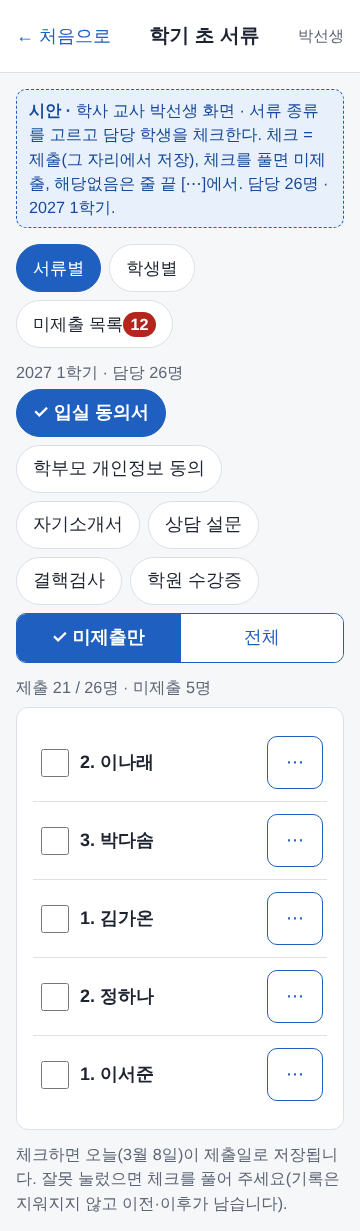
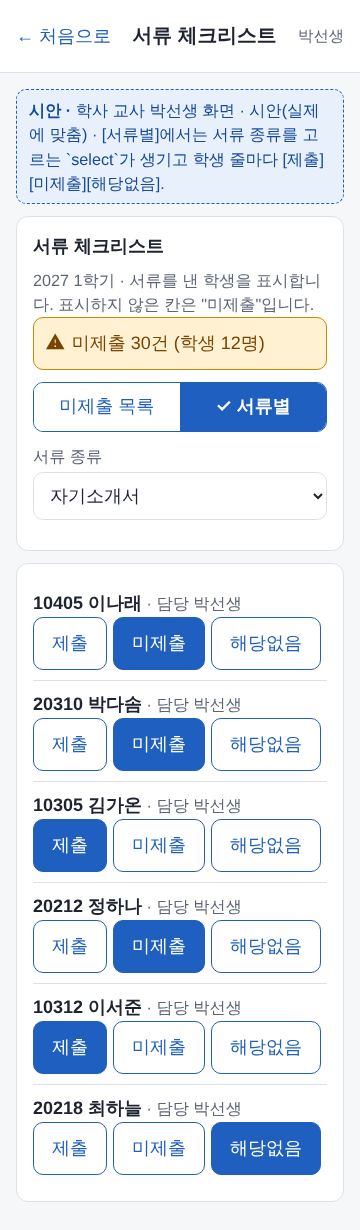
C27 시안을 실제 화면(screen_docs)에 맞춤, 제안 3장은 '실제와 다름' 표시, program.edit 출결 담당 추가(#182) 반영
Claude-Session: https://claude.ai/code/session_01By8Yaa8urwsSoHVw3FXUZa

diff --git a/design/preview/stage4-screens.js b/design/preview/stage4-screens.js
@@ -20,98 +20,112 @@ function typeChips(on) {
 }
 function progress(done, total) { return el('div', { class: 'muted', style: 'margin:4px 0 8px', text: '제출 ' + done + ' / ' + total + '명 · 미제출 ' + (total - done) + '명' }); }
 
-/* ═════════ C27 서류 체크리스트 ═════════ */
-def('docs-home', 'C27 서류', '학사 교사 홈의 "학기 초 서류" 카드', {}, function (root) {
-  var m = frame(root, { title: '신한1학사', who: '박선생', note: '시안 · 학사 교사 홈에 얹는 카드. 담당 학생의 미제출만 보인다(학생 이름은 담당교사에게만). 2단계의 "서류 미제출"(입퇴실·급식 신청 서류)과 다른 카드다.' });
-  m.appendChild(card('학기 초 서류 미제출', [
-    row([UI.statusPill('requested', '12명 · 30건')], 'margin:4px 0 8px'),
-    el('div', { class: 'muted', text: '2. 이나래 · 3. 박다솜 · 1. 김가온 외 9명' }),
-    link('서류 체크리스트 열기', '', 'margin-top:12px')]));
+/* ═════════ C27 서류 체크리스트 (실제 화면 screen_docs.html 에 맞춘 모양 + 실제에 없는 제안 3장은 `docs-proposal-` 로 표시) ═════════ */
+(function () {   // 실제 화면이 자체 <style>로 쓰는 줄·버튼 모양(screen_docs.html)을 시안에도 같게 둔다
+  var st = document.createElement('style');
+  st.textContent = '.doc-row{padding:10px 0;border-bottom:1px solid var(--line);word-break:keep-all}.doc-row:last-child{border-bottom:0}.doc-line{display:flex;justify-content:space-between;align-items:center;gap:8px;flex-wrap:wrap;margin-top:6px}.doc-btns{display:flex;gap:6px;flex-wrap:wrap}.doc-btns button{min-height:48px}.doc-btns button.on{background:var(--accent);color:#fff;border-color:var(--accent)}';
+  document.head.appendChild(st);
+})();
+function docBtns(cur, disabled) {
+  var box = el('div', { class: 'doc-btns' });
+  ['제출', '미제출', '해당없음'].forEach(function (t) {
+    var b = el('button', { type: 'button', class: 'btn secondary' + (cur === t ? ' on' : ''), text: t, 'aria-pressed': cur === t ? 'true' : 'false' });
+    if (disabled) b.disabled = true; box.appendChild(b);
+  });
+  return box;
+}
+var DOC_STU = [['10405', '이나래', '박선생', { '입실 동의서': '미제출', '자기소개서': '미제출', '결핵검사': '미제출' }], ['20310', '박다솜', '박선생', { '자기소개서': '미제출', '결핵검사': '미제출' }], ['10305', '김가온', '박선생', { '입실 동의서': '미제출', '학원 수강증': '미제출' }], ['20212', '정하나', '박선생', { '자기소개서': '미제출', '결핵검사': '미제출' }]];
+function docHead(m, mode, note, withType) {
+  var head = card('서류 체크리스트', [el('div', { class: 'muted', text: '2027 1학기 · 서류를 낸 학생을 표시합니다. 표시하지 않은 칸은 "미제출"입니다.' }),
+    el('div', { class: 'notice warn', text: '미제출 30건 (학생 12명)' }),
+    UI.segmented({ options: [{ value: 'missing', label: '미제출 목록' }, { value: 'type', label: '서류별' }], value: mode, onchange: function () {} })]);
+  if (withType) head.appendChild(UI.field('서류 종류', el('select', {}, DOC_TYPES.map(function (t) { var o = el('option', { value: t, text: t }); if (t === '자기소개서') o.selected = true; return o; })), {}));
+  m.appendChild(head);
+}
+def('docs-home', 'C27 서류', '홈의 "서류 체크리스트" 카드 (관리자·출결 담당·학사 교사 홈)', {}, function (root) {
+  var m = frame(root, { title: '신한1학사', who: '박선생', note: '시안(실제 home_*.html에 맞춤) · 홈 카드. 미제출 건수와 학생 수만 보이고(이름 없음) [서류 체크리스트 열기]로 들어간다. 2단계의 "급식·입퇴실 서류" 카드와 다르다.' });
+  m.appendChild(card('서류 체크리스트', [row([UI.statusPill('todo', '미제출 30건 · 학생 12명')], 'margin:8px 0'), el('div', { class: 'muted', text: '학기 초 서류(동의서 등)를 냈는지 표시합니다.' }), link('서류 체크리스트 열기', '', 'margin-top:12px')]));
 });
 
-def('docs-by-type', 'C27 서류', '서류별 체크 (담당 학생, 미제출만)', {}, function (root) {
-  var m = frame(root, { title: '학기 초 서류', who: '박선생', tabs: [{ t: '서류별', on: true }, { t: '학생별' }, { t: '미제출 목록', n: 12 }],
-    note: '시안 · 서류 종류를 고르고 담당 학생을 체크한다. 체크 = 제출(그 자리에서 저장), 체크를 풀면 미제출, 해당없음은 줄 끝 [⋯]에서. 담당 26명 · 2027 1학기.' });
-  m.appendChild(el('div', { class: 'muted', style: 'margin-bottom:4px', text: '2027 1학기 · 담당 26명' }));
-  m.appendChild(typeChips('입실 동의서'));
-  m.appendChild(UI.segmented({ options: [{ value: 'miss', label: '미제출만' }, { value: 'all', label: '전체' }], value: 'miss', onchange: function () {} }));
-  m.appendChild(progress(21, 26));
-  var ul = el('ul', { class: 'list' });
-  [['2', '이나래'], ['3', '박다솜'], ['1', '김가온'], ['2', '정하나'], ['1', '이서준']].forEach(function (s) { ul.appendChild(docRow(lab(s[0], s[1]), false, '')); });
-  m.appendChild(card('', [ul]));
-  m.appendChild(el('div', { class: 'muted', text: '체크하면 오늘(3월 8일)이 제출일로 저장됩니다. 잘못 눌렀으면 체크를 풀어 주세요(기록은 지워지지 않고 이전·이후가 남습니다).' }));
+def('docs-missing', 'C27 서류', '서류 체크리스트 — 미제출 목록 (학생마다 빠진 서류와 [제출][미제출][해당없음])', {}, function (root) {
+  var m = frame(root, { title: '서류 체크리스트', who: '박선생', note: '시안(실제 screen_docs.html에 맞춤) · 기본 모양. 미제출이 있는 학생만, 빠진 서류마다 상태 버튼 셋(누르는 즉시 저장). 학생은 "학번 이름 · 담당 선생님"으로 보인다(실제 화면 그대로 — 이름 규칙 "1. 김가온"과 다름).' });
+  docHead(m, 'missing');
+  var body = card('', []);
+  DOC_STU.forEach(function (r) {
+    var rw = el('div', { class: 'doc-row' }, [el('b', { text: r[0] + ' ' + r[1] }), el('span', { class: 'muted', text: ' · 담당 ' + r[2] })]);
+    Object.keys(r[3]).forEach(function (t) { rw.appendChild(el('div', { class: 'doc-line' }, [el('span', { text: t }), docBtns(r[3][t], false)])); });
+    body.appendChild(rw);
+  });
+  m.appendChild(body);
 });
 
-def('docs-state-sheet', 'C27 서류', '서류 상태 시트 (제출·미제출·해당없음, 제출일, 메모)', { sheet: true }, function (root) {
-  var m = frame(root, { title: '학기 초 서류', who: '박선생', tabs: [{ t: '서류별', on: true }, { t: '학생별' }, { t: '미제출 목록', n: 12 }], note: '시안 · 줄 끝 [⋯]를 누르면 상태 시트가 열린다.' });
-  m.appendChild(typeChips('결핵검사'));
-  var ul = el('ul', { class: 'list' }); ul.appendChild(docRow(lab('2', '이나래'), false, '')); m.appendChild(card('', [ul]));
-  var date = UI.dateField({ label: '제출일', value: '2027-03-08', onchange: function () {} });
-  var memo = el('input', { type: 'text', value: '' });
-  UI.bottomSheet({ title: '2. 이나래 · 결핵검사', content: el('div', {}, [
-    UI.segmented({ options: [{ value: '제출', label: '제출' }, { value: '미제출', label: '미제출' }, { value: '해당없음', label: '해당없음' }], value: '해당없음', onchange: function () {} }),
-    el('div', { class: 'muted', style: 'margin-bottom:8px', text: '해당없음은 이 학생에게 이 서류가 필요 없을 때(예: 학원 수강증을 내지 않는 학생)입니다.' }),
-    date, UI.field('메모 (선택)', memo, { hint: '길게 쓰지 않습니다.' })]),
-    actions: [{ text: '닫기', kind: 'secondary', onclick: function () {} }, { text: '저장', onclick: function () {} }], onclose: function () {} }).open();
+def('docs-by-type', 'C27 서류', '서류 체크리스트 — 서류별 (서류 종류를 고르면 학생 줄마다 상태 버튼)', {}, function (root) {
+  var m = frame(root, { title: '서류 체크리스트', who: '박선생', note: '시안(실제에 맞춤) · [서류별]에서는 서류 종류를 고르는 `select`가 생기고 학생 줄마다 [제출][미제출][해당없음].' });
+  docHead(m, 'type', '', true);
+  var body = card('', []);
+  [['10405', '이나래', '미제출'], ['20310', '박다솜', '미제출'], ['10305', '김가온', '제출'], ['20212', '정하나', '미제출'], ['10312', '이서준', '제출'], ['20218', '최하늘', '해당없음']].forEach(function (r) {
+    body.appendChild(el('div', { class: 'doc-row' }, [el('b', { text: r[0] + ' ' + r[1] }), el('span', { class: 'muted', text: ' · 담당 박선생' }), docBtns(r[2], false)]));
+  });
+  m.appendChild(body);
 });
 
-def('docs-by-student', 'C27 서류', '학생별 서류 (한 명의 서류 전부)', {}, function (root) {
-  var m = frame(root, { title: '학기 초 서류', who: '박선생', tabs: [{ t: '서류별' }, { t: '학생별', on: true }, { t: '미제출 목록', n: 12 }], note: '시안 · 학생 한 명을 찾으면 서류 6종을 한 번에 본다(면담하면서 확인할 때).' });
+def('docs-readonly', 'C27 서류', '서류 체크리스트 — 출결 담당 보기만 (버튼이 꺼져 있다)', {}, function (root) {
+  var m = frame(root, { title: '서류 체크리스트', who: '정선생', note: '정선생(출결 담당) 화면 · 출결 담당은 학사생 전체를 보지만 표시는 못 한다(`doc.view`만, `doc.edit` 없음) → 버튼이 꺼지고 안내 한 줄.' });
+  docHead(m, 'missing');
+  var body = card('', [el('div', { class: 'muted', text: '보기만 할 수 있습니다. 표시는 담당 선생님·관리자가 합니다.' })]);
+  DOC_STU.slice(0, 3).forEach(function (r) {
+    var rw = el('div', { class: 'doc-row' }, [el('b', { text: r[0] + ' ' + r[1] }), el('span', { class: 'muted', text: ' · 담당 ' + r[2] })]);
+    Object.keys(r[3]).forEach(function (t) { rw.appendChild(el('div', { class: 'doc-line' }, [el('span', { text: t }), docBtns(r[3][t], true)])); });
+    body.appendChild(rw);
+  });
+  m.appendChild(body);
+});
+
+def('docs-types', 'C27 서류', '서류 종류 관리 (관리자, 칸마다 이름·설명·순서·[저장]·[끄기])', {}, function (root) {
+  var m = frame(root, { title: '서류 체크리스트', who: '관리자', note: '시안(실제에 맞춤) · 서류 체크리스트 화면 맨 아래 관리자 카드. 서류 종류마다 이름·설명·순서 입력과 [저장]·[끄기](삭제 없음), 맨 아래 새 서류 추가. 순서는 숫자를 직접 적는다. 고칠 점: 실제 화면의 입력칸은 UI.field로 감싸이지 않아 높이가 21px이라(48px 미만) 이 시안은 감싼 모양으로 그렸다.' });
+  docHead(m, 'missing');
+  var tc = card('서류 종류 관리', [el('div', { class: 'muted', text: '입실 동의서, 개인정보 동의서 등. 끄면 목록에서 사라지지만 제출 기록은 남습니다.' })]);
+  DOC_TYPES.slice(0, 3).forEach(function (t, i) {
+    tc.appendChild(el('div', { class: 'doc-row' }, [UI.field('서류 이름', el('input', { type: 'text', value: t })), UI.field('설명', el('input', { type: 'text', value: i === 0 ? '입실 전 서명 받은 동의서' : '' })), UI.field('순서', el('input', { type: 'text', value: String(i + 1) })),
+      el('div', { class: 'doc-line' }, [el('button', { type: 'button', class: 'btn secondary', text: '저장' }), el('button', { type: 'button', class: 'btn secondary', text: '끄기' })])]));
+  });
+  tc.appendChild(el('div', { class: 'doc-row' }, [el('b', { text: '새 서류' }), UI.field('새 서류 이름', el('input', { type: 'text', placeholder: '예: 입실 동의서' })), UI.field('설명(선택)', el('input', { type: 'text' })), el('div', { class: 'doc-line' }, [el('button', { type: 'button', class: 'btn', text: '서류 추가' })])]));
+  m.appendChild(tc);
+});
+
+def('docs-type-off', 'C27 서류', '서류 종류 끄기 확인 (삭제 아님)', { sheet: true }, function (root) {
+  var m = frame(root, { title: '서류 체크리스트', who: '관리자', note: '시안(실제에 맞춤) · [끄기]를 누르면 확인창.' });
+  docHead(m, 'missing');
+  UI.confirmSheet({ title: '"결핵검사"을(를) 끌까요?', lines: ['목록에서 사라집니다.', '이미 표시한 제출 기록은 지워지지 않습니다.'], confirmText: '끄기', danger: true, onconfirm: function () {} });
+});
+
+/* ───── 아래 셋은 시안에만 있고 실제 화면에 없다(제안, 꼭 필요한지는 총괄 판단). 이름이 docs-proposal- 로 시작한다 ───── */
+def('docs-proposal-by-student', 'C27 제안(실제와 다름)', '제안: 학생별 보기 (한 학생의 서류 전부) — 실제 화면에 없음', {}, function (root) {
+  var m = frame(root, { title: '서류 체크리스트', who: '박선생', tabs: [{ t: '서류별' }, { t: '학생별', on: true }, { t: '미제출 목록', n: 12 }], note: '실제와 다름(제안) · 면담하면서 한 학생의 서류 6종을 한눈에 보는 [학생별] 탭. 실제 화면에는 없다(미제출 목록·서류별 둘뿐).' });
   m.appendChild(studentPick('학생', 'ㅇㄴㄹ'));
   var ul = el('ul', { class: 'list' });
   [['입실 동의서', '제출', '3월 2일'], ['학부모 개인정보 동의', '제출', '3월 2일'], ['자기소개서', '미제출', ''], ['상담 설문', '제출', '3월 5일'], ['결핵검사', '미제출', ''], ['학원 수강증', '해당없음', '']].forEach(function (r) {
     var kind = r[1] === '제출' ? 'confirmed' : (r[1] === '미제출' ? 'requested' : 'mute');
     ul.appendChild(el('li', { style: 'align-items:center' }, [el('div', { style: 'min-width:0;word-break:keep-all' }, [el('b', { text: r[0] }), r[2] ? el('div', { class: 'muted', text: '제출일 ' + r[2] }) : null]), UI.statusPill(kind, r[1])]));
   });
-  m.appendChild(card('2. 이나래 · 미제출 2건', [ul, link('상태 바꾸기', 'secondary', 'margin-top:8px')]));
+  m.appendChild(card('이나래 · 미제출 2건', [ul]));
 });
-
-def('docs-unsubmitted', 'C27 서류', '미제출 목록 (학생별로 모은 것)', {}, function (root) {
-  var m = frame(root, { title: '학기 초 서류', who: '박선생', tabs: [{ t: '서류별' }, { t: '학생별' }, { t: '미제출 목록', on: true, n: 12 }], note: '시안 · 담당 학생 중 미제출이 있는 학생만, 많은 순서로. 서류 이름 칩을 누르면 그 서류만 거른다.' });
-  m.appendChild(el('div', { class: 'muted', style: 'margin-bottom:8px', text: '12명 · 30건' }));
-  m.appendChild(typeChips(''));
-  var ul = el('ul', { class: 'list' });
-  [['2', '이나래', ['자기소개서', '결핵검사', '입실 동의서']], ['3', '박다솜', ['자기소개서', '결핵검사']], ['1', '김가온', ['입실 동의서', '학원 수강증']], ['2', '정하나', ['자기소개서', '결핵검사']], ['1', '이서준', ['입실 동의서']], ['2', '최하늘', ['자기소개서']]].forEach(function (r) {
-    ul.appendChild(el('li', { style: 'align-items:flex-start' }, [el('div', { style: 'min-width:0;word-break:keep-all' }, [el('b', { text: lab(r[0], r[1]) }), el('div', { class: 'muted', text: r[2].join(' · ') })]), UI.statusPill('requested', r[2].length + '건')]));
-  });
-  m.appendChild(card('', [ul, link('더 보기(6명)', 'secondary', 'margin-top:8px')]));
+def('docs-proposal-state-sheet', 'C27 제안(실제와 다름)', '제안: [⋯] 상태 시트 (제출일·메모) — 실제 화면에 없음', { sheet: true }, function (root) {
+  var m = frame(root, { title: '서류 체크리스트', who: '박선생', note: '실제와 다름(제안) · 제출일·메모를 남기는 시트. 실제 화면은 [제출][미제출][해당없음] 버튼만 있고 제출일·메모를 받지 않는다(탭에는 `submitted_date`·`memo` 열이 있다).' });
+  docHead(m, 'type', '', true);
+  UI.bottomSheet({ title: '이나래 · 결핵검사', content: el('div', {}, [UI.segmented({ options: [{ value: '제출', label: '제출' }, { value: '미제출', label: '미제출' }, { value: '해당없음', label: '해당없음' }], value: '제출', onchange: function () {} }),
+    UI.dateField({ label: '제출일', value: '2027-03-08', onchange: function () {} }), UI.field('메모 (선택)', el('input', { type: 'text', value: '' }), {})]),
+    actions: [{ text: '닫기', kind: 'secondary', onclick: function () {} }, { text: '저장', onclick: function () {} }], onclose: function () {} }).open();
 });
-
-def('docs-summary', 'C27 서류', '관리자 서류 진행 (서류별·담당교사별)', {}, function (root) {
-  var m = frame(root, { title: '학기 초 서류', who: '관리자', tabs: [{ t: '진행', on: true }, { t: '서류 종류' }], note: '시안 · 관리자 화면. 학사생 180명 전체의 진행과 담당교사별 미제출(독촉할 곳). 학생 이름은 없다(숫자만).' });
+def('docs-proposal-summary', 'C27 제안(실제와 다름)', '제안: 관리자 서류 진행 (서류별·담당교사별 숫자) — 실제 화면에 없음', {}, function (root) {
+  var m = frame(root, { title: '서류 체크리스트', who: '관리자', note: '실제와 다름(제안) · 관리자가 어느 선생님이 서류를 덜 받았는지 한눈에 보는 표. 실제 화면에는 없다(관리자도 미제출 목록·서류별로 본다). 학생 이름 없이 숫자만.' });
   var t1 = el('table', { class: 'data compact' }, [el('thead', {}, [el('tr', {}, ['서류', '제출', '미제출', '해당없음'].map(function (h) { return el('th', { text: h }); }))]),
-    el('tbody', {}, [['입실 동의서', 171, 9, 0], ['학부모 개인정보 동의', 168, 12, 0], ['자기소개서', 150, 30, 0], ['상담 설문', 175, 5, 0], ['결핵검사', 130, 38, 12], ['학원 수강증', 90, 20, 70]].map(function (r) {
-      return el('tr', {}, r.map(function (v) { return el('td', { text: String(v) }); })); }))]);
-  m.appendChild(el('h2', { text: '서류별 (학사생 180명)', style: 'margin:4px 0 8px' }));
-  m.appendChild(el('div', { class: 'tablewrap' }, [t1]));
+    el('tbody', {}, [['입실 동의서', 171, 9, 0], ['학부모 개인정보 동의', 168, 12, 0], ['자기소개서', 150, 30, 0], ['상담 설문', 175, 5, 0], ['결핵검사', 130, 38, 12], ['학원 수강증', 90, 20, 70]].map(function (r) { return el('tr', {}, r.map(function (v) { return el('td', { text: String(v) }); })); }))]);
+  m.appendChild(el('h2', { text: '서류별 (학사생 180명)', style: 'margin:4px 0 8px' })); m.appendChild(el('div', { class: 'tablewrap' }, [t1]));
   var t2 = el('table', { class: 'data compact' }, [el('thead', {}, [el('tr', {}, ['담당교사', '담당 학생', '미제출 건수'].map(function (h) { return el('th', { text: h }); }))]),
     el('tbody', {}, [['박선생', 26, 30], ['김선생', 31, 22], ['이선생', 30, 18], ['최선생', 29, 16], ['정선생', 32, 15], ['한선생', 32, 13]].map(function (r) { return el('tr', {}, r.map(function (v) { return el('td', { text: String(v) }); })); })
       .concat([el('tr', { class: 'total' }, ['전체', 180, 114].map(function (v) { return el('td', { text: String(v) }); }))]))]);
-  m.appendChild(el('h2', { text: '담당교사별 미제출', style: 'margin:16px 0 8px' }));
-  m.appendChild(el('div', { class: 'tablewrap' }, [t2]));
-  m.appendChild(el('div', { class: 'muted', text: '표는 옆으로 밀 수 있습니다(첫 열은 고정). 합계 줄은 굵은 글씨 + 회색 바탕.' }));
-});
-
-def('docs-types', 'C27 서류', '관리자 서류 종류 관리 (추가·이름·순서·취소, 삭제 없음)', {}, function (root) {
-  var m = frame(root, { title: '학기 초 서류', who: '관리자', tabs: [{ t: '진행' }, { t: '서류 종류', on: true }], bar: [{ text: '+ 서류 종류 추가' }],
-    note: '시안 · 관리자만. 서류 종류는 지우지 않고 [취소]로 끈다(취소해도 이미 받은 제출 기록은 남는다).' });
-  m.appendChild(el('div', { class: 'notice info', text: '서류 종류는 학기마다 새로 만들지 않아도 됩니다. 학기가 바뀌면 학생별 제출 표시만 새로 시작합니다.' }));
-  var ul = el('ul', { class: 'list' });
-  DOC_TYPES.forEach(function (t, i) {
-    ul.appendChild(el('li', { style: 'align-items:center' }, [el('div', { style: 'min-width:0;word-break:keep-all' }, [el('b', { text: (i + 1) + '. ' + t }), el('div', { class: 'muted', text: i === 4 ? '입실 전 결핵 검진 결과' : '' })]),
-      row([el('button', { type: 'button', class: 'btn secondary row-btn', 'aria-label': t + ' 위로', text: '▲' }), el('button', { type: 'button', class: 'btn secondary row-btn', 'aria-label': t + ' 아래로', text: '▼' }), el('button', { type: 'button', class: 'btn secondary row-btn', text: '고치기' })], 'flex-wrap:nowrap')]));
-  });
-  m.appendChild(card('', [ul]));
-  m.appendChild(el('h2', { text: '취소된 종류', style: 'margin:16px 0 8px' }));
-  m.appendChild(card('', [el('ul', { class: 'list' }, [el('li', { style: 'align-items:center' }, [el('div', { style: 'word-break:keep-all' }, [el('b', { text: '건강 설문' }), el('div', { class: 'muted', text: '작년까지 사용' })]), UI.statusPill('canceled', '취소됨')])])]));
-});
-
-def('docs-type-edit', 'C27 서류', '서류 종류 추가·고치기 시트', { sheet: true }, function (root) {
-  var m = frame(root, { title: '학기 초 서류', who: '관리자', tabs: [{ t: '진행' }, { t: '서류 종류', on: true }], bar: [{ text: '+ 서류 종류 추가' }], note: '시안 · [+ 서류 종류 추가] 또는 [고치기]를 누르면 열린다.' });
-  var name = el('input', { type: 'text', value: '' }), desc = el('input', { type: 'text', value: '' });
-  var f = UI.field('이름', name, { hint: '이미 있는 서류 이름과 같을 수 없습니다.' });
-  UI.bottomSheet({ title: '서류 종류 추가', content: el('div', {}, [f, UI.field('설명 (선택)', desc, { hint: '교사가 무엇을 받는 서류인지 알 수 있게 한 줄로.' })]),
-    actions: [{ text: '닫기', kind: 'secondary', onclick: function () {} }, { text: '추가', onclick: function () {} }], onclose: function () {} }).open();
+  m.appendChild(el('h2', { text: '담당교사별 미제출', style: 'margin:16px 0 8px' })); m.appendChild(el('div', { class: 'tablewrap' }, [t2]));
 });
 
 /* ═════════ C28 프로그램 + 참가자 (코딩B가 만든 실제 화면 #173에 맞춘 모양: [목록|새 프로그램] 탭, 카드 안 펼치기, 아래 바는 입력에서만) ═════════ */

diff --git a/tests/design/docs.test.js b/tests/design/docs.test.js
@@ -157,7 +157,7 @@ test('D12 4단계 시안(stage4-screens.js)의 화면 이름이 모두 screens.m
     assert.ok(sec.indexOf('`' + id + '`') >= 0, '5-4 절에 `' + id + '` 가 없다');
     assert.ok(fs.existsSync(path.join(__dirname, '..', '..', 'docs', 'design', 'stage4-photos', id + '.png')), id + ' 사진이 없다');
   });
-  ['`doc.edit`', '`doc.view`', '`doc.types`', '`program.edit`', '`program.view`', '삭제 버튼은 없다', '미정', '행이 없으면 미제출', '함께 취소됩니다', '그대로 두고 프로그램 특이사항을 따로 만듭니다'].forEach((t) => assert.ok(sec.indexOf(t) >= 0 || doc.indexOf(t) >= 0, t));
+  ['`doc.edit`', '`doc.view`', '`doc.types`', '`program.edit`', '`program.view`', '삭제 버튼은 없다', '`docs-proposal-summary`', '실제와 다름', '미정', '행이 없으면 미제출', '함께 취소됩니다', '그대로 두고 프로그램 특이사항을 따로 만듭니다'].forEach((t) => assert.ok(sec.indexOf(t) >= 0 || doc.indexOf(t) >= 0, t));
 });
 
 test('2단계 선생님 확인 체크리스트: 단계 번호(A1~E4)가 겹치지 않고 모든 줄이 7칸(번호·누가·누르는 것·통과 모습·사진·결과)이며, print-check 9·10절 번호(44~66)가 이어진다', () => {

diff --git a/docs/design/screens.md b/docs/design/screens.md
@@ -477,54 +477,69 @@ D12 시안(`design/preview/stage4-screens.js`, 실행 `node design/preview/stage
 
 | 이름 | 화면 | 누가 |
 | --- | --- | --- |
-| `docs-home` | 학사 교사 홈의 "학기 초 서류 미제출" 카드 | 학사 교사 |
-| `docs-by-type` | 서류별 체크(담당 학생, 미제출만) | 학사 교사·관리자 |
-| `docs-state-sheet` | 서류 상태 시트(제출·미제출·해당없음, 제출일, 메모) | 학사 교사·관리자 |
-| `docs-by-student` | 학생별 서류(한 명의 서류 전부) | 학사 교사·관리자 |
-| `docs-unsubmitted` | 미제출 목록(학생별로 모은 것) | 학사 교사 |
-| `docs-summary` | 서류 진행(서류별·담당교사별 숫자) | 관리자 |
-| `docs-types` | 서류 종류 관리(추가·이름·순서·취소) | 관리자 |
-| `docs-type-edit` | 서류 종류 추가·고치기 시트 | 관리자 |
-| `program-list` | [목록] 탭: 예정·지난·취소, 카드 | 학사 교사·관리자(출결 담당은 보기) |
-| `program-card-open` | 카드 안에서 참가자 펼침(줄마다 [빼기]) | 학사 교사·관리자 |
-| `program-add` | [새 프로그램] 탭(이름·날짜·시간·참가 학생) | 학사 교사·관리자 |
-| `program-add-more` | [참가자 더하기] 시트(이미 담은 학생은 건너뜀) | 학사 교사·관리자 |
-| `program-confirm` | [확인하고 저장] 확인창(특이사항 건수·겹침 안내) | 학사 교사·관리자 |
-| `program-remove` | 참가에서 빼기 확인(사유 입력) | 학사 교사·관리자 |
-| `program-cancel` | 프로그램 취소 확인(사유 입력) | 학사 교사·관리자 |
+| `docs-home` | 홈의 "서류 체크리스트" 카드(미제출 건수·학생 수) | 관리자·출결 담당·학사 교사 |
+| `docs-missing` | 미제출 목록(학생마다 빠진 서류와 [제출][미제출][해당없음]) | 학사 교사·관리자(출결 담당은 보기만) |
+| `docs-by-type` | 서류별(서류 종류 `select` + 학생 줄마다 상태 버튼) | 학사 교사·관리자 |
+| `docs-readonly` | 출결 담당 보기만(버튼이 꺼진 모양) | 출결 담당 |
+| `docs-types` | 서류 종류 관리(이름·설명·순서·[저장]·[끄기]·새 서류) | 관리자 |
+| `docs-type-off` | 서류 종류 끄기 확인(삭제 아님) | 관리자 |
+| `docs-proposal-by-student` | **제안·실제와 다름:** 학생별 보기 | (제안) |
+| `docs-proposal-state-sheet` | **제안·실제와 다름:** [⋯] 상태 시트(제출일·메모) | (제안) |
+| `docs-proposal-summary` | **제안·실제와 다름:** 관리자 서류 진행(서류별·담당교사별 숫자) | (제안) |
+| `program-list` | [목록] 탭: 예정·지난·취소, 카드 | 관리자·출결 담당·학사 교사 |
+| `program-card-open` | 카드 안에서 참가자 펼침(줄마다 [빼기]) | 관리자·출결 담당·학사 교사 |
+| `program-add` | [새 프로그램] 탭(이름·날짜·시간·참가 학생) | 관리자·출결 담당·학사 교사 |
+| `program-add-more` | [참가자 더하기] 시트(이미 담은 학생은 건너뜀) | 관리자·출결 담당·학사 교사 |
+| `program-confirm` | [확인하고 저장] 확인창(특이사항 건수·겹침 안내) | 관리자·출결 담당·학사 교사 |
+| `program-remove` | 참가에서 빼기 확인(사유 입력) | 관리자·출결 담당·학사 교사 |
+| `program-cancel` | 프로그램 취소 확인(사유 입력) | 관리자·출결 담당·학사 교사 |
 
-### C27-1. 학사 교사: 서류 체크
+### C27-1. 서류 체크리스트 (실제 화면 `screen_docs.html`에 맞춘 시안)
 
 ```
-학기 초 서류                       박선생
-( 서류별 )( 학생별 )( 미제출 목록 12 )        ← .tabs (두 줄로 접혀도 된다)
-2027 1학기 · 담당 26명
-( 입실 동의서 )( 학부모 개인정보 동의 )…      ← 서류 종류 칩(하나 고름)
-[ 미제출만 | 전체 ]                          ← UI.segmented
-제출 21 / 26명 · 미제출 5명
-┌──────────────────────────┐
-│ ☐ 2. 이나래                 [ ⋯ ]  │  ← 체크 = 제출(그 자리에서 저장), 풀면 미제출
-│ ☐ 3. 박다솜                 [ ⋯ ]  │
+서류 체크리스트                        박선생
+┌ 서류 체크리스트 ───────────────┐
+│ 2027 1학기 · 서류를 낸 학생을 표시합니다. 표시하지 않은 칸은 "미제출"입니다. │
+│ ⚠ 미제출 30건 (학생 12명)                         │  ← .notice.warn (다 냈으면 .notice.ok "모두 제출했습니다.")
+│ [ 미제출 목록 | 서류별 ]                           │  ← UI.segmented
+│ (서류별일 때) 서류 종류 [ 자기소개서 ▾ ]            │  ← select
+└──────────────────────────┘
+┌ 10405 이나래 · 담당 박선생 ────┐
+│ 입실 동의서   [제출][미제출][해당없음] │  ← 누르는 즉시 저장, 지금 상태는 채운 버튼
+│ 자기소개서    [제출][미제출][해당없음] │
 └──────────────────────────┘
 ```
 
-- 홈 카드(`docs-home`): "학기 초 서류 미제출 12명 · 30건", 학생 몇 명(이름은 담당교사에게만), [서류 체크리스트 열기]. 2단계의 "서류 미제출"(입퇴실·급식 신청 서류) 카드와 다른 카드다.
-- **서류별**(`docs-by-type`): 칩으로 서류 종류를 고르고 담당 학생을 체크한다. 체크한 줄은 그 자리에서 저장되고(제출일 = 오늘) 체크를 풀면 `미제출`로 돌아간다(같은 행을 고친다, `audit_log`에 이전·이후). 줄 끝 [⋯]은 상태 시트(`docs-state-sheet`): 제출·미제출·해당없음 `UI.segmented`, 제출일(`UI.dateField`), 메모(짧게). **해당없음**은 그 학생에게 필요 없는 서류(예: 학원 수강증을 안 내는 학생).
-- **학생별**(`docs-by-student`): `UI.studentPicker`로 한 명을 찾으면 서류 종류마다 상태 알약(`제출`=`confirmed`, `미제출`=`requested`, `해당없음`=`mute`)과 제출일이 보인다. 면담하면서 한 학생의 서류를 한눈에 볼 때.
-- **미제출 목록**(`docs-unsubmitted`): 담당 학생 중 미제출이 있는 학생만, 미제출이 많은 순서로. 줄에 빠진 서류 이름과 건수(알약), 서류 이름 칩으로 거른다.
-- 서류가 없는 학생은 **행이 없으면 미제출**로 본다(학기 초에 행을 미리 만들지 않는다, s4-0 설계). 새 학기가 되면 학생별 제출 표시는 새로 시작한다(기간별 탭).
-- 권한: 담당교사·그날 근무교사·관리자가 표시(`doc.edit`), 출결 담당은 보기(`doc.view`, 체크·[⋯]가 없다). 담임·학생·학부모에게는 이 화면도 카드도 없다.
+- **한 화면**이다. 위 카드(제목·기간·미제출 요약 알림·`UI.segmented` [미제출 목록 | 서류별]), 본문 카드, (관리자만) 맨 아래 서류 종류 관리 카드(`docs-types`). 서류 종류가 없으면 `.notice.info`("서류 종류가 아직 없습니다. …").
+- **미제출 목록**(`docs-missing`, 기본): 미제출이 하나라도 있는 학생만. 줄 = "학번 이름 · 담당 선생님"(굵게) 아래에 **빠진 서류마다** 서류 이름과 [제출][미제출][해당없음] 세 버튼(48px, 지금 상태는 파란 채움 + `aria-pressed`). 누르면 즉시 저장하고 목록을 다시 불러온다(그래서 제출로 바꾸면 그 줄이 사라진다). 다른 사람이 먼저 바꾸었으면 "이미 바뀌었습니다" 안내 뒤 새로 고친다(`expect`).
+- **서류별**(`docs-by-type`): `select`로 서류 종류를 고르면 학생 줄마다 같은 세 버튼.
+- **보기만**(`docs-readonly`): 출결 담당은 학사생 전체를 보지만 표시는 못 한다(`doc.view`만) → 버튼이 꺼지고 "보기만 할 수 있습니다. 표시는 담당 선생님·관리자가 합니다."
+- **보이는 학생**: 관리자·출결 담당·**근무 중인 학사 교사**는 학사생 전체, 그 밖의 학사 교사는 담당 학생만(`docVisibleIds_`). 서류가 없는 학생은 **행이 없으면 미제출**(학기 초에 행을 미리 만들지 않는다). 새 학기가 되면 학생별 제출 표시는 새로 시작한다(기간별 탭). 이 기간의 서류 탭이 없으면 `.notice.warn`.
+- **홈 카드**(`docs-home`): 관리자·출결 담당·학사 교사 홈에 "서류 체크리스트" 카드 — `미제출 N건 · 학생 M명`(알약 `todo`, 다 냈으면 `confirmed` "모두 제출", 서류 종류가 없으면 "서류 종류 없음") + "학기 초 서류(동의서 등)를 냈는지 표시합니다." + [서류 체크리스트 열기]. 2단계의 "급식·입퇴실 서류" 카드와 다르다.
+- 권한: 표시는 담당교사·그날 근무교사·관리자(`doc.edit`, 학생 범위는 서버가 판정), 보기는 출결 담당까지(`doc.view`), 서류 종류 관리는 관리자만(`doc.types`). 담임·학생·학부모에게는 이 화면도 카드도 없다.
 
-### C27-2. 관리자: 진행과 서류 종류
+### C27-2. 관리자: 서류 종류 관리 (`docs-types`, `docs-type-off`)
 
-- **진행**(`docs-summary`): 학사생 전체 기준 "서류별 제출·미제출·해당없음" 표와 "담당교사별 미제출 건수" 표(독촉할 곳). 학생 이름은 없고 숫자만이다. 합계 줄은 굵은 글씨 + 회색 바탕, 표는 상자 안에서만 옆으로 민다.
-- **서류 종류**(`docs-types`, `docs-type-edit`): 서류 종류 목록(순서 ▲▼, [고치기]), [+ 서류 종류 추가](이름·설명). 이름은 유효한 것끼리 겹칠 수 없다. **삭제 버튼은 없다** — [고치기] 시트에서 취소하면 "취소된 종류"로 내려가고(`취소됨` 알약) 이미 받은 제출 기록은 남는다.
+- 서류 종류마다 이름(40자)·설명(100자)·순서(숫자) 입력과 [저장]·[끄기], 맨 아래 "새 서류"(이름·설명·[서류 추가]). 이름은 유효한 것끼리 겹칠 수 없다(오류는 그 줄 아래 `.error`). 순서는 숫자를 직접 적는다(▲▼ 버튼이 아님).
+- **삭제 버튼은 없다.** [끄기]는 확인창(`UI.confirmSheet`, 위험 색, "목록에서 사라집니다. 이미 표시한 제출 기록은 지워지지 않습니다.") 뒤 서류 종류를 `취소`로 바꿔 목록에서 숨긴다.
+- **고칠 점(실제 화면):** 입력칸이 `UI.field`로 감싸이지 않은 맨 `<input>`이라 높이가 21px(누르는 칸 48px 미만)이고 글자 라벨이 `aria-label`뿐이다. 시안(`docs-types`)은 `UI.field`로 감싼 모양이다.
+
+### C27-3. 제안(실제 화면에 없음, 꼭 필요한지는 총괄 판단)
+
+처음 시안에 그렸지만 실제 화면에는 없는 것들이다. 이름이 `docs-proposal-`로 시작하고 안내 줄에 "실제와 다름"이 적혀 있다.
+
+| 제안 | 왜 필요할 수 있나 | 판단(디자인 의견) |
+| --- | --- | --- |
+| 학생별 보기(`docs-proposal-by-student`) | 면담하면서 한 학생의 서류 6종을 한눈에 | 있으면 좋음(지금은 [서류별]에서 서류를 바꿔 가며 찾아야 함). 꼭은 아님 |
+| [⋯] 상태 시트(`docs-proposal-state-sheet`) — 제출일·메모 | 탭에 `submitted_date`·`memo` 열이 이미 있어 값이 비어 있다 | 서류를 늦게 받았을 때 날짜가 필요하면 필요. 지금 규칙에는 제출일을 쓰는 곳이 없어 후순위 |
+| 관리자 진행 표(`docs-proposal-summary`) — 서류별·담당교사별 숫자 | 관리자가 어느 선생님이 덜 받았는지 독촉할 곳을 한눈에 | **있으면 가장 효과가 큼**(180명 규모에서 목록으로는 합계를 못 본다). 꼭은 아님 |
+| 홈의 담당 학생 이름 몇 명 | 홈에서 바로 누구인지 | 실제 카드는 숫자만 — 개인정보 최소로 이대로 둬도 됨 |
 
 ### C28-1. 학사 프로그램 (실제 화면 #173에 맞춘 시안)
 
 ```
 학사 프로그램                          박선생
-[ 목록 | 새 프로그램 ]                        ← UI.segmented 탭(학사 교사·관리자만, 출결 담당은 목록만)
+[ 목록 | 새 프로그램 ]                        ← UI.segmented 탭(`program.edit`가 있는 사람만, 없으면 목록만)
 2027 1학기
 [ 예정 2 | 지난 1 | 취소 1 ]
 ┌ 면접 특강 ─────────────────┐
@@ -542,12 +557,12 @@ D12 시안(`design/preview/stage4-screens.js`, 실행 `node design/preview/stage
 - **참가에서 빼기**(`program-remove`, `UI.confirmWithReason` "참가에서 뺍니다"): 사유를 받고, 그 학생의 사전 특이사항만 `취소`(기록은 남음).
 - **프로그램 취소**(`program-cancel`, `UI.confirmWithReason` "프로그램을 취소합니다"): 사유를 받고 "참가자 33명의 사전 특이사항도 함께 취소됩니다(기록은 남습니다)." 끝나면 "취소했습니다. 특이사항 N건도 함께 취소되었습니다."
 - **프로그램 날짜·시간은 고치지 않는다**(결정): 잘못 만들었으면 취소하고 새로 만든다. 고치기 화면은 없다.
-- 권한: 학사 교사·관리자가 만들고 참가자를 더하고 빼고 취소(`program.edit`), 출결 담당은 목록만(`program.view`, 탭·[참가자 더하기]·[프로그램 취소]·[빼기]가 없다). 담임·학생·학부모는 이 화면이 없다(그 학생의 특이사항은 기존 특이사항 화면에 보인다).
+- 권한: 관리자·출결 담당·학사 교사가 만들고 참가자를 더하고 빼고 취소(`program.edit`, #182로 출결 담당 추가). 담임·학생·학부모는 이 화면이 없다(그 학생의 특이사항은 기존 특이사항 화면에 보인다).
 
 ### 5-4 미정·가정·확인 못 한 것
 
 - **결정됨(C28, 총괄):** ① 같은 시간에 이미 특이사항이 있는 학생은 그대로 두고 프로그램 특이사항을 따로 만들며, 확인창에 "N명은 같은 시간에 다른 특이사항이 있습니다"를 보인다. ② 반 단위 담기에서 이미 담은 학생은 건너뛴다. ③ 프로그램 날짜·시간 고치기는 하지 않는다(취소하고 새로 만든다).
-- **ASSUMPTION(C27):** 체크 한 번으로 제출이 저장되는 것은 속도를 위한 제안이다. 실수로 눌러도 체크를 풀어 되돌릴 수 있고(이전·이후가 감사 기록에 남음) 별도 확인창은 두지 않았다. 확인창이 필요하면 [⋯] 시트에서만 바꾸게 한다.
+- **C27은 실제 화면에 맞췄다.** 상태는 [제출][미제출][해당없음] 세 버튼을 누르는 즉시 저장하는 방식이다(체크 한 번 저장 제안은 쓰지 않음). 제출일·메모, 학생별 보기, 관리자 진행 표는 제안으로만 남겼다(C27-3).
 - 시안은 담당교사별 독촉 메일·알림, 학기 초 서류 일괄 체크(여러 학생을 한 번에 제출 처리), 서류 종류를 학기별로 다르게 켜고 끄기를 그리지 않았다(결정 75 범위 밖).
 - 화면 숫자는 가짜다(학사생 180명, 담당 박선생 26명, 서류 6종).
 
@@ -566,8 +581,8 @@ D12 시안(`design/preview/stage4-screens.js`, 실행 `node design/preview/stage
 | 학기 초 서류 체크(`doc.edit`) | ○ | — | ○ 담당·근무 학생 | — | — |
 | 학기 초 서류 보기(`doc.view`) | ○ | ○ 보기 | ○ | — | — |
 | 서류 종류 관리(`doc.types`) | ○ | — | — | — | — |
-| 프로그램 만들기·참가자·취소(`program.edit`) | ○ | — | ○ | — | — |
-| 프로그램 목록 보기(`program.view`) | ○ | ○ 보기 | ○ | — | — |
+| 프로그램 만들기·참가자·취소(`program.edit`) | ○ | ○ | ○ | — | — |
+| 프로그램 목록 보기(`program.view`) | ○ | ○ | ○ | — | — |
 | 떨어뜨릴 짝 보기·추가·취소(사유 포함) | ○ | — | ○ | — | — |
 | 방 배정 보기·정원 현황판 | ○ | 보기 | ○ | — | — |
 | 방 배정 수정·초안 | ○ | — | ○ | — | — |

diff --git a/docs/plan/s4-0-design.md b/docs/plan/s4-0-design.md
@@ -1,6 +1,6 @@
 # S4-0 새 탭·열 설계 (결정 75·76) — 총괄 검토용
 
-> 코딩A, 2026-11-14. **승인됨(총괄): 기간별 student_docs, 보호자 이름도 숨김, program.edit에 hall_teacher 추가.** 같은 PR에서 구현했다. 시트 구조 변경은 선생님이 승인하셨습니다(결정 75·76).
+> 코딩A, 2026-11-14. **승인됨(총괄): 기간별 student_docs, 보호자 이름도 숨김, program.edit에 hall_teacher 추가(이후 #182로 attendance도 추가).** 같은 PR에서 구현했다. 시트 구조 변경은 선생님이 승인하셨습니다(결정 75·76).
 
 ## 1. 새 탭
 
@@ -33,7 +33,7 @@
 | `doc.edit` | admin, hall_teacher | `scope:'student'`(담당·그날 근무교사·관리자, 결정 60의 기간) | 제출·미제출·해당없음 표시 |
 | `doc.types` | admin | — | 서류 종류 추가·이름·정렬·취소 |
 | `program.view` | admin, attendance, hall_teacher | — | 프로그램 목록 보기(출결 담당은 목록에서 본다) |
-| `program.edit` | admin, hall_teacher | — | 프로그램·참가자 입력·취소(특강·체험학습은 학사 교사가 운영). 만든 사람과 상관없이 생기는 특이사항은 '확정', 만든 이는 감사 기록에 |
+| `program.edit` | admin, attendance, hall_teacher | — | 프로그램·참가자 입력·취소(특강·체험학습은 학사 교사가 운영, **출결 담당도 입력 — #182**). 만든 사람과 상관없이 생기는 특이사항은 '확정', 만든 이는 감사 기록에 |
 | `contact.view` | admin, hall_teacher | `scope:'student'`(= 그 학생의 담당교사·관리자·**그날 근무교사**, `canAccessStudentByFacts_`의 `isAssigned`·`isOnDuty && isEnrolled`), `dutyWindow` 없음(오늘 근무자만) | 전화번호·보호자 이름 보기. `attendance`·`homeroom`·`duty_manager`는 넣지 않는다 |
 | `contact.edit` | admin | — | 명단 올리기로만 받는다(`roster.edit`가 이미 관리자만이라 별도 화면 없음) |
 
